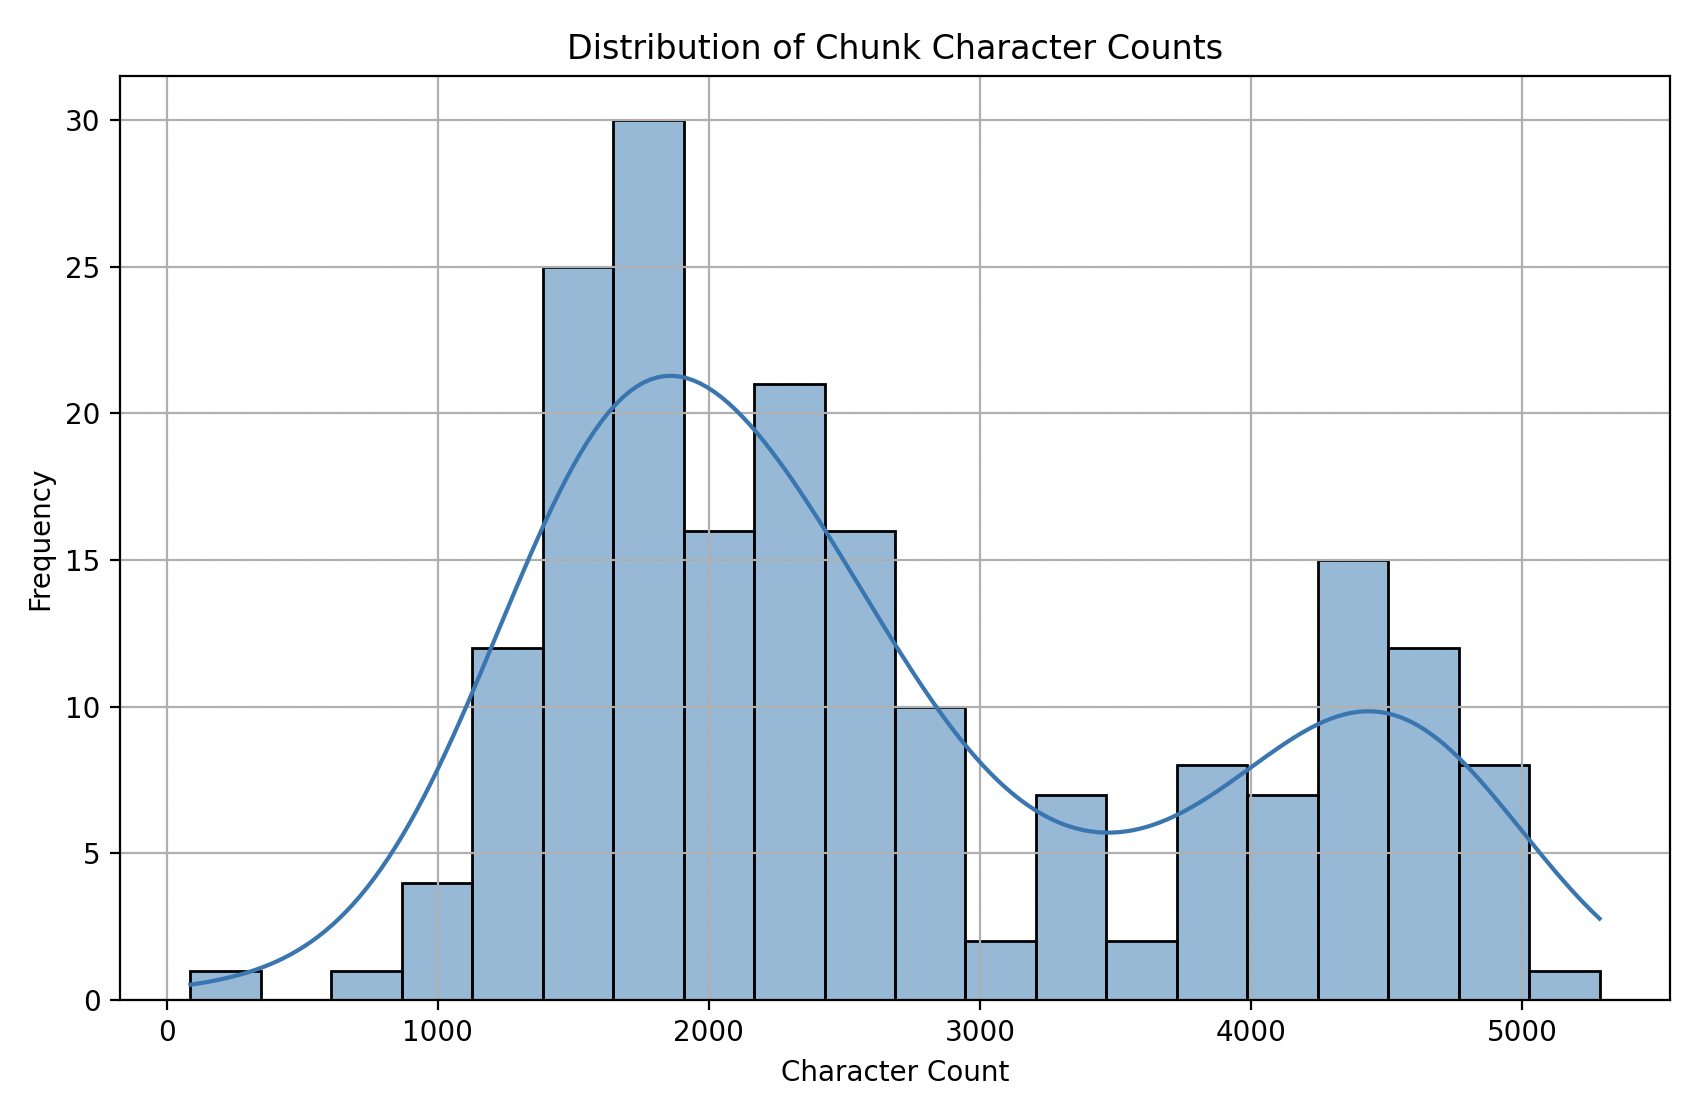
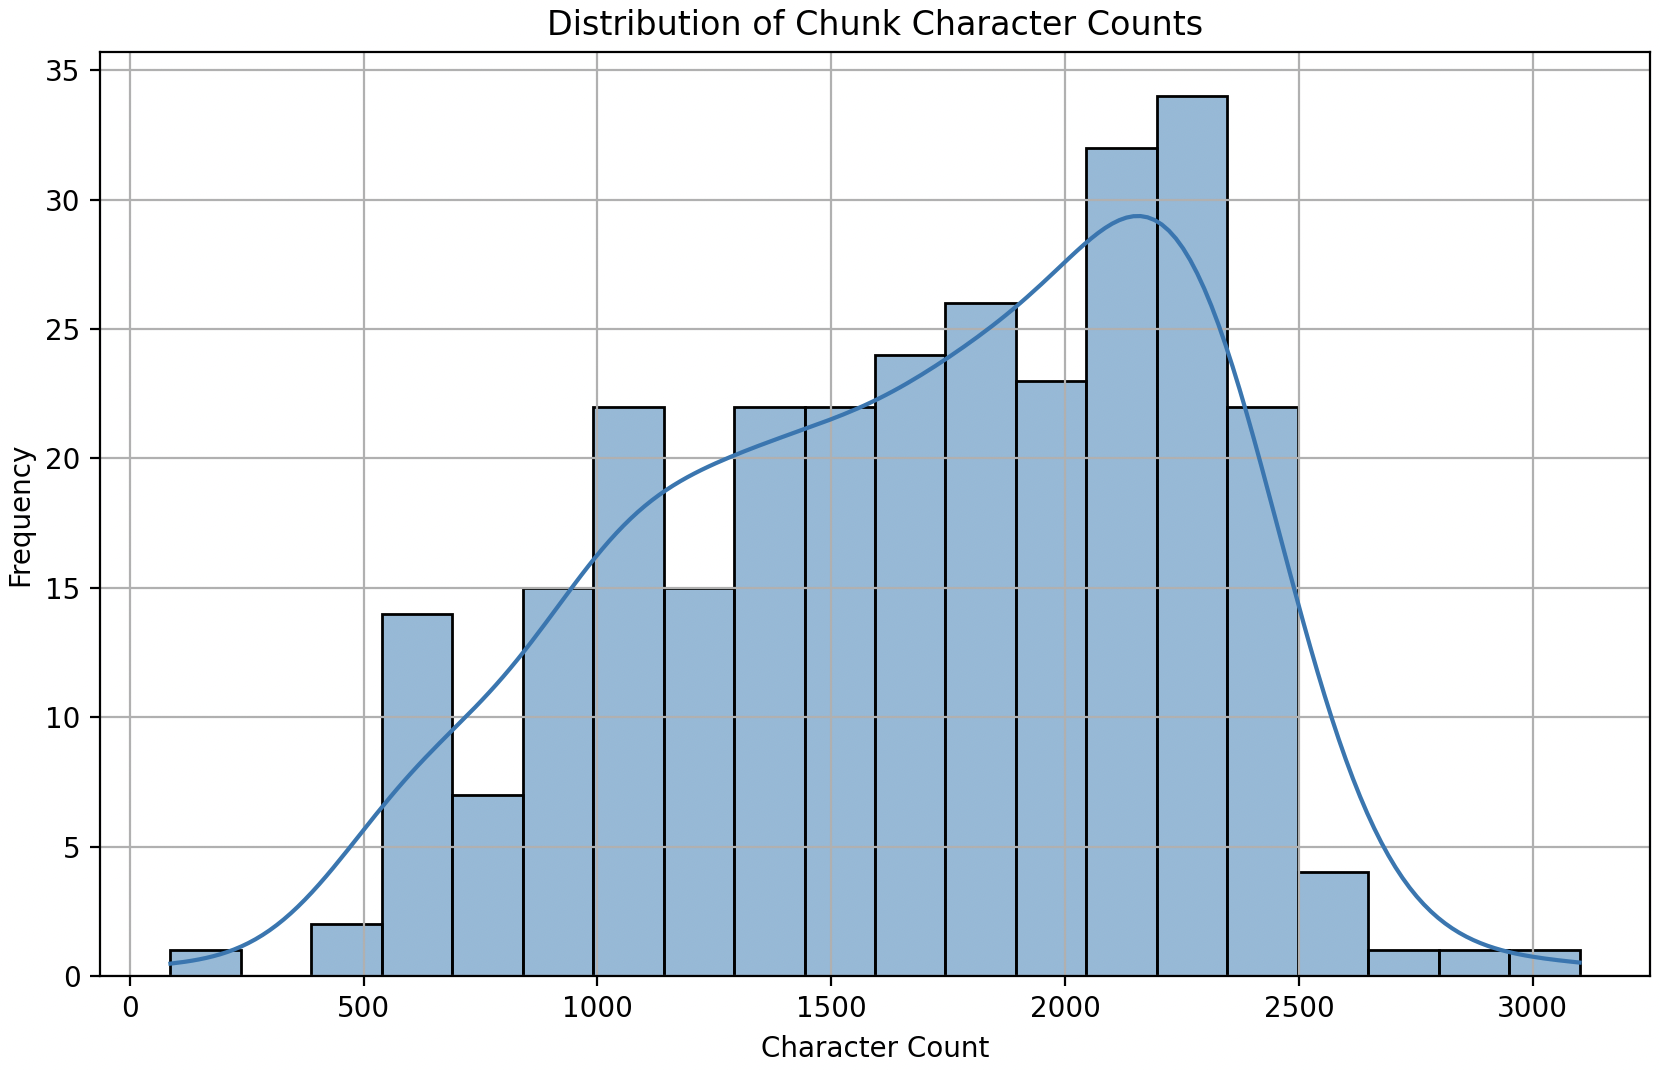
Add options for Streamlit UI

diff --git a/app.py b/app.py
@@ -12,7 +12,7 @@ from src.retrieval.retrieve_docs import TableAwareRetriever
 
 VARIABLE_ORDER = list(VARIABLE_PATHS.keys())
 
-CHROMA_PATH = "db"
+CHROMA_PATH = "db_test"
 COLLECTION_NAME = "rag"
 
 
@@ -65,7 +65,7 @@ def available_years(chunks):
     return list(range(max_year, min_year - 1, -1))
 
 
-def extract_variable_for_year(retriever, variable_name, target_year, scope="all"):
+def extract_variable_for_year(retriever, variable_name, target_year, match_method="hybrid", table_bonus=True):
     config = VARIABLE_PATHS[variable_name]
     base_query = config.query_template.format(year=target_year-1)
     query_bundle = build_retrieval_queries(variable_name, base_query, target_year=target_year-1)
@@ -157,7 +157,7 @@ def main():
         for variable_name in VARIABLE_ORDER:
             config = VARIABLE_PATHS[variable_name]
             # Pass match_method to extract_variable_for_year using a local variable
-            result = extract_variable_for_year(retriever, variable_name, selected_year, scope="all")
+            result = extract_variable_for_year(retriever, variable_name, selected_year, match_method=match_method, table_bonus=True)
             query_rows.append({
                 "Variable": config.display_name,
                 "BM25 Query": result["bm25_query"],
